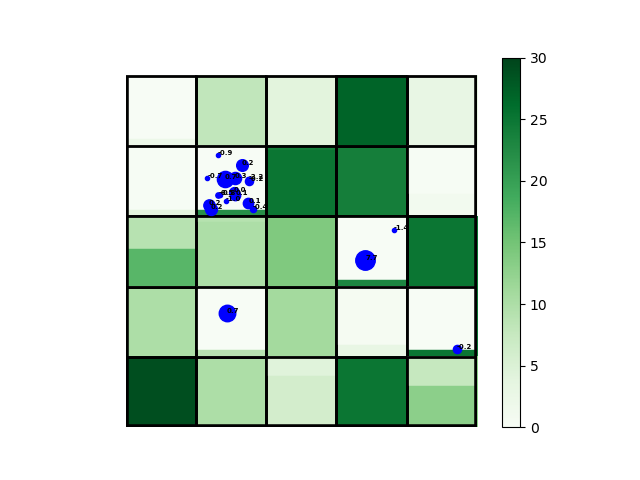
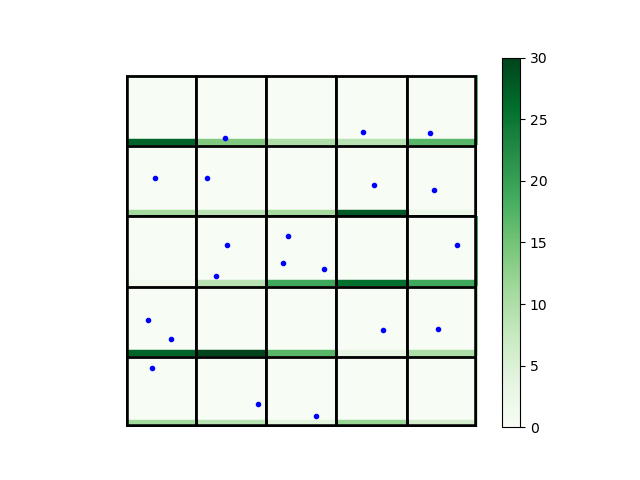
debugging and made configFiles

Changed region(s): [[0.1875, 0.1562, 0.75, 0.9062], [0.3438, 0.625, 0.375, 0.6875]]

diff --git a/classBoard.py b/classBoard.py
@@ -51,30 +51,26 @@ class Board():
         """turns a 2D matrix into a 1D list"""
         return [matrix[i][j] for j in range(len(matrix[0])) for i in range(len(matrix))]
 
-    def distributeFundingSci(self, cell, dept, cellFunding):
+    def distributeFundingSci(self, cell, dept, cellFunding, starFactorWeights):
         """
         distribute the funding allotted for each cell to the scientists in the cell
         """
         denominator = 0
         probabilities = np.zeros_like(dept)
         for sci in dept:
-            star = sci.getStarFactor()
+            star = sci.getStarFactor(starFactorWeights)
             # ensure numbers are in reasonable range
             if star <= -1:
                 star = 1/abs(star)
-            elif star >= 1:
-                star = star
-            else:
+            elif star < 1:
                 star = 1
             denominator += np.exp(star)
 
         for i in range(len(dept)):
-            star = dept[i].getStarFactor()
+            star = dept[i].getStarFactor(starFactorWeights)
             if star <= -1:
                 star = 1/abs(star)
-            elif star >= 1:
-                star = star
-            else:
+            elif star < 1:
                 star = 1
             numerator = np.exp(star)
             
@@ -84,7 +80,7 @@ class Board():
 
         return [sci.funding for sci in dept]
 
-    def distributeFundingCell(self, chooseCellToFund, funding, exp):
+    def distributeFundingCell(self, chooseCellToFund, funding, exp, starFactorWeights):
         """distributes funding to each cell based on input weights"""
         # Calculate the probabilities for each cell
         probabilities = np.random.rand(self.rows, self.cols)
@@ -97,7 +93,7 @@ class Board():
                 avgStarSum = 0
                 if cell.location in self.cellsHit.keys():
                     for sci in self.cellsHit[cell.location]:
-                        starSum += sci.getStarFactor()
+                        starSum += sci.getStarFactor(starFactorWeights)
                     avgStarSum = starSum/cell.numSciHits
 
                 # account for the fact that starFactor can be negative
@@ -124,7 +120,7 @@ class Board():
                     cell = self.board[i][j]
                     cell.funds = probabilities[i][j] * funding["total"]
                     if cell.location in self.cellsHit.keys():
-                        self.distributeFundingSci(cell, self.cellsHit[cell.location], cell.funds)
+                        self.distributeFundingSci(cell, self.cellsHit[cell.location], cell.funds, starFactorWeights)
             return probabilities
 
         for j in range(self.rows):
@@ -135,7 +131,7 @@ class Board():
                 avgStarSum = 0
                 if cell.location in self.cellsHit.keys():
                     for sci in self.cellsHit[cell.location]:
-                        starSum += sci.getStarFactor()
+                        starSum += sci.getStarFactor(starFactorWeights)
                     avgStarSum = starSum/cell.numSciHits
 
                 # account for the fact that starFactor can be negative
@@ -156,10 +152,10 @@ class Board():
                 #fund cell and then scientist based on probabilities
                 cell.funds = probabilities[j][k] * funding["total"]
                 if cell.location in self.cellsHit.keys():
-                    self.distributeFundingSci(cell, self.cellsHit[cell.location], cell.funds)
+                    self.distributeFundingSci(cell, self.cellsHit[cell.location], cell.funds, starFactorWeights)
         return probabilities
 
-    def drawBoard(self, cellsHit, numRun):
+    def drawBoard(self, cellsHit, numRun, starFactorWeights):
         """produces a plot of the board for a given run and saves the image"""
         data = self.getPayoffs()
         plot = plt.imshow(data, cmap="Greens", vmin=0, vmax=30)
@@ -194,7 +190,7 @@ class Board():
                     # plotting the "dot" scientists
                     for x in range(1, cell.numSciHits + 1):
                         scientist = cellsHit[cell.location][x-1]
-                        starFactor = scientist.getStarFactor()
+                        starFactor = scientist.getStarFactor(starFactorWeights)
                         if starFactor < 0:
                             if (7 - 7 * abs(starFactor)) < 3:
                                 dotSize = 3
@@ -213,8 +209,8 @@ class Board():
                             marker="o", markersize=dotSize, markeredgecolor="blue",
                             markerfacecolor="blue")
                         # uncomment the following code to display starFactor along with each scientist's dot
-                        plt.annotate(f"{starFactor:.1f}", xy = (i+randX-0.5, j+randY-0.5), xytext=(i+randX-0.5, j+randY-0.5),
-                            fontsize=5, fontweight='bold')
+                        # plt.annotate(f"{starFactor:.1f}", xy = (i+randX-0.5, j+randY-0.5), xytext=(i+randX-0.5, j+randY-0.5),
+                        #     fontsize=5, fontweight='bold')
                 # uncomment and change the following code to display cell values on image
                 # plt.annotate(f"{cell.funds:.2f}", xy = (i, j), xytext=(i-0.15, j+0.075),
                 #     fontsize=13, fontweight='bold')

diff --git a/classScientist.py b/classScientist.py
@@ -15,11 +15,14 @@ class Scientist():
         """String representation of Scientist"""
         return str([self.impact, self.career, self.citcount, self.funding])
 
-    def getStarFactor(self):
+    def getStarFactor(self, starFactorWeights):
         """calculates starFactor based on scientist's parameters"""
-        num = (self.impact-(31 - self.career)) + (self.citcount-(31 - self.career)) + (self.funding-(31 - self.career))
+        # weights of each factor in the calculation of starFactor
+        c = starFactorWeights["citation"]
+        i = starFactorWeights["impact"]
+        f = starFactorWeights["funding"]
         denom = (31 - self.career) 
-        overall = num/denom
+        overall = (c*self.citcount + i*self.impact + f*self.funding)/denom - 2*denom
         return overall
 
     def probCell(self, board, weights, exp):
@@ -93,40 +96,36 @@ class Scientist():
         self.career -= 1
         return self.impact
 
-    def citeProbs(self, val):
+    def citeProbs(self, val, starFactorWeights):
         """probability distribution of citing scientists in a cell"""
         # Calculate the probabilities for each cell
         probabilities = np.zeros_like(val)
 
         denominator = 0
         for sci in val:
-            star = sci.getStarFactor()
+            star = sci.getStarFactor(starFactorWeights)
             # ensure numbers are in reasonable range
             if star <= -1:
                 star = 1/abs(star)
-            elif star >= 1:
-                star = star
-            else:
+            elif star < 1:
                 star = 1
 
             denominator += np.exp(star) 
 
         for i in range(len(val)):
-            star = val[i].getStarFactor()
+            star = val[i].getStarFactor(starFactorWeights)
             if star <= -1:
                 star = 1/abs(star)
-            elif star >= 1:
-                star = star
-            else:
+            elif star < 1:
                 star = 1
 
             numerator = np.exp(star)
             probabilities[i] = numerator / denominator
         return probabilities
 
-    def cite(self, val):
+    def cite(self, val, starFactorWeights):
         """decides which other scientists in the cell get cited"""
-        probs = self.citeProbs(val)
+        probs = self.citeProbs(val, starFactorWeights)
         # randomly choose how many other scientists to cite, not including themselves
         numCites = np.random.randint(0, len(val) + 1)
         choice = random.choices(val, weights=probs, k=numCites)

diff --git a/Run.py b/Run.py
@@ -5,8 +5,9 @@ from classCell import *
 from classBoard import *
 from classScientist import *
 
-# load in input parameters from json config file
-with open("config.json", "r") as params:
+# input the name of the file with the parameters (eg config.json or configFiles/citation.json)
+input = input()
+with open(input, "r") as params:
     data = json.load(params)
 
 weights = data["cellChoiceWeights"]
@@ -17,6 +18,7 @@ exp = data["expForProbabilities"]
 N = data["payoffExtractionParams"]["N"]
 D = data["payoffExtractionParams"]["D"]
 p = data["payoffExtractionParams"]["p"]
+starFactorWeights = data["starFactorWeights"]
 
 def oneRun(board, cellsHit, numRun):
     """runs query simulation for one year"""
@@ -27,10 +29,10 @@ def oneRun(board, cellsHit, numRun):
             sciOrder = np.random.permutation(val)
             for scientist in sciOrder:
                 scientist.sciQuery(key, board)
-                scientist.cite(val)
+                scientist.cite(val, starFactorWeights)
         else:
             val[0].sciQuery(key, board)
-    board.drawBoard(cellsHit, numRun)
+    board.drawBoard(cellsHit, numRun, starFactorWeights)
     return board
 
 def batchRun(board, numScientists, numRuns):
@@ -43,7 +45,7 @@ def batchRun(board, numScientists, numRuns):
     for j in range(numRuns):
         # keep track of which cells the scientists are hitting to check overlap
         # funding for the first year is determined randomly
-        board.distributeFundingCell(chooseCellToFund, funding, exp)
+        board.distributeFundingCell(chooseCellToFund, funding, exp, starFactorWeights)
 
         # gives which scientists are at that location
         board.cellsHit = {}
